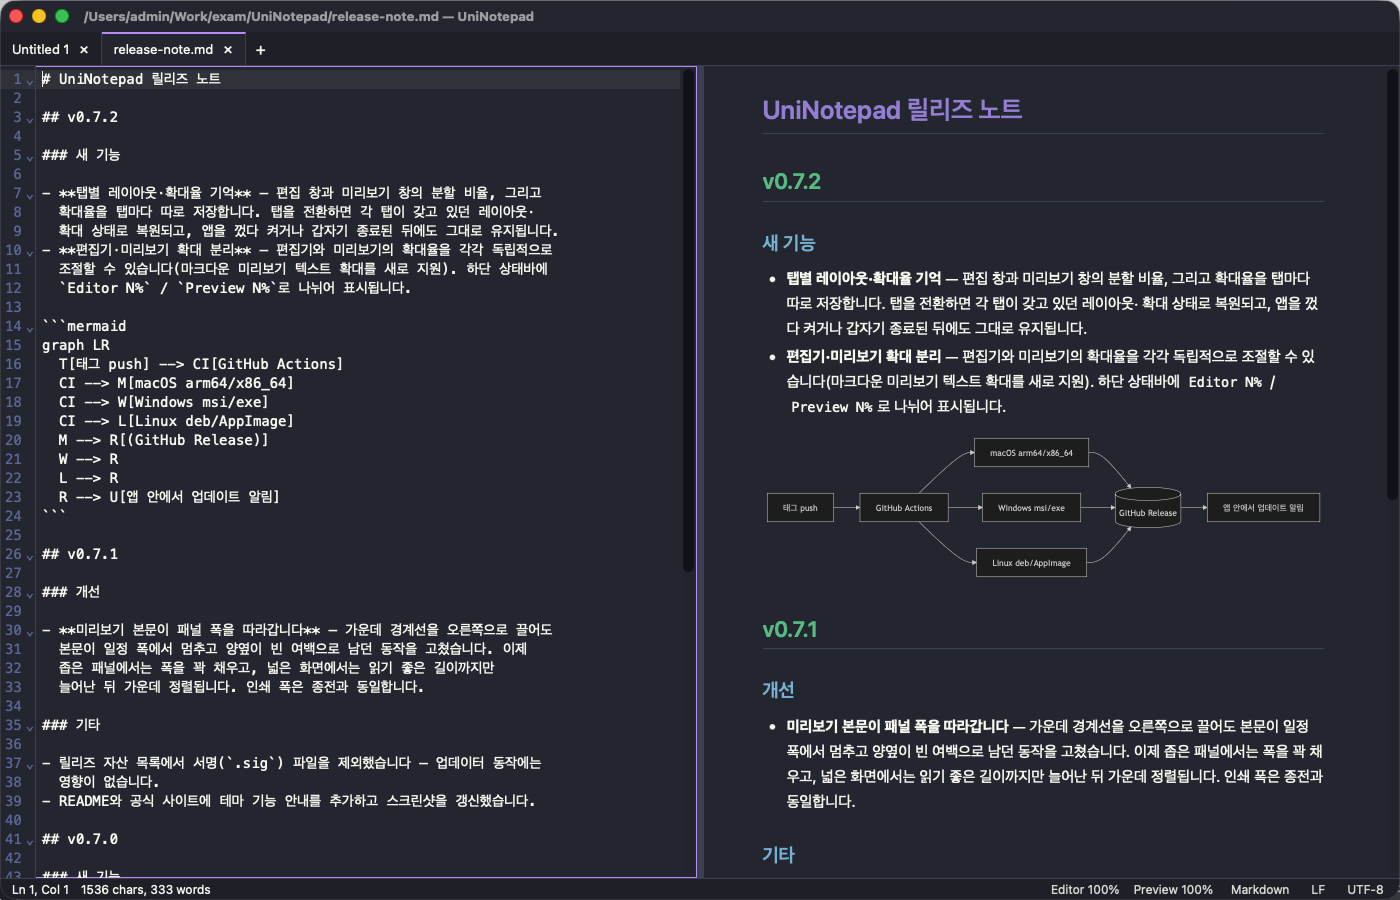
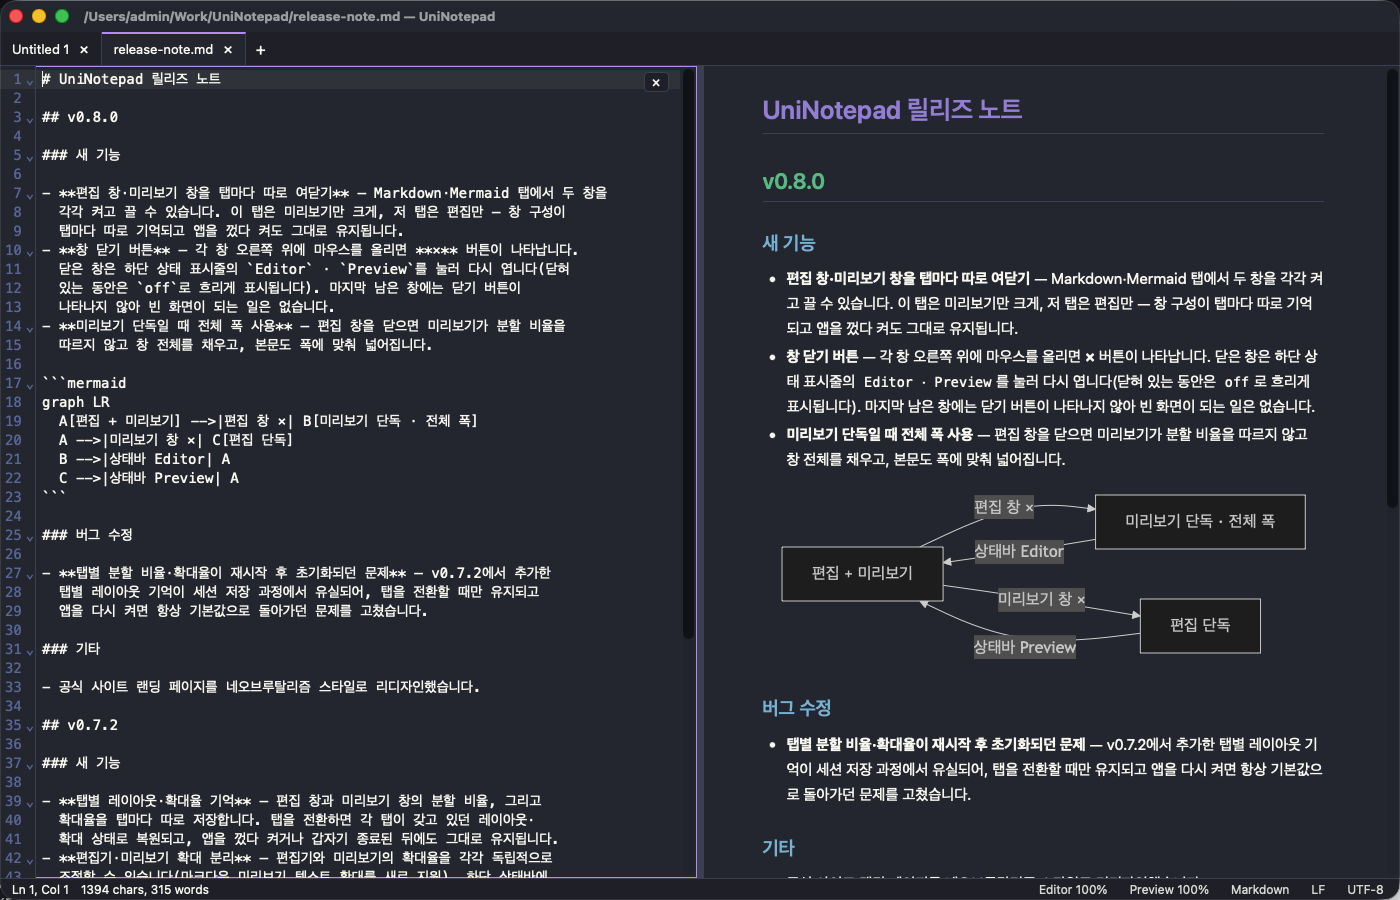
[Docs] release-note.md와 Markdown 스크린샷을 v0.8.0 화면으로 갱신
- release-note.md에 v0.8.0 섹션 추가(최근 3개 릴리즈 유지). 창 전환 흐름을
  보여주는 mermaid graph LR 예시로 교체
- docs/·site/assets/의 syntax-markdown(.light) 4장을 v0.8.0 빌드 화면으로
  교체 — 편집 창 우상단 닫기 버튼과 상태바 Editor/Preview 칩이 함께 담김

diff --git a/release-note.md b/release-note.md
@@ -1,5 +1,37 @@
 # UniNotepad 릴리즈 노트
 
+## v0.8.0
+
+### 새 기능
+
+- **편집 창·미리보기 창을 탭마다 따로 여닫기** — Markdown·Mermaid 탭에서 두 창을
+  각각 켜고 끌 수 있습니다. 이 탭은 미리보기만 크게, 저 탭은 편집만 — 창 구성이
+  탭마다 따로 기억되고 앱을 껐다 켜도 그대로 유지됩니다.
+- **창 닫기 버튼** — 각 창 오른쪽 위에 마우스를 올리면 **×** 버튼이 나타납니다.
+  닫은 창은 하단 상태 표시줄의 `Editor` · `Preview`를 눌러 다시 엽니다(닫혀
+  있는 동안은 `off`로 흐리게 표시됩니다). 마지막 남은 창에는 닫기 버튼이
+  나타나지 않아 빈 화면이 되는 일은 없습니다.
+- **미리보기 단독일 때 전체 폭 사용** — 편집 창을 닫으면 미리보기가 분할 비율을
+  따르지 않고 창 전체를 채우고, 본문도 폭에 맞춰 넓어집니다.
+
+```mermaid
+graph LR
+  A[편집 + 미리보기] -->|편집 창 ×| B[미리보기 단독 · 전체 폭]
+  A -->|미리보기 창 ×| C[편집 단독]
+  B -->|상태바 Editor| A
+  C -->|상태바 Preview| A
+```
+
+### 버그 수정
+
+- **탭별 분할 비율·확대율이 재시작 후 초기화되던 문제** — v0.7.2에서 추가한
+  탭별 레이아웃 기억이 세션 저장 과정에서 유실되어, 탭을 전환할 때만 유지되고
+  앱을 다시 켜면 항상 기본값으로 돌아가던 문제를 고쳤습니다.
+
+### 기타
+
+- 공식 사이트 랜딩 페이지를 네오브루탈리즘 스타일로 리디자인했습니다.
+
 ## v0.7.2
 
 ### 새 기능
@@ -10,18 +42,6 @@
 - **편집기·미리보기 확대 분리** — 편집기와 미리보기의 확대율을 각각 독립적으로
   조절할 수 있습니다(마크다운 미리보기 텍스트 확대를 새로 지원). 하단 상태바에
   `Editor N%` / `Preview N%`로 나뉘어 표시됩니다.
-
-```mermaid
-graph LR
-  T[태그 push] --> CI[GitHub Actions]
-  CI --> M[macOS arm64/x86_64]
-  CI --> W[Windows msi/exe]
-  CI --> L[Linux deb/AppImage]
-  M --> R[(GitHub Release)]
-  W --> R
-  L --> R
-  R --> U[앱 안에서 업데이트 알림]
-```
 
 ## v0.7.1
 
@@ -37,31 +57,3 @@ graph LR
 - 릴리즈 자산 목록에서 서명(`.sig`) 파일을 제외했습니다 — 업데이터 동작에는
   영향이 없습니다.
 - README와 공식 사이트에 테마 기능 안내를 추가하고 스크린샷을 갱신했습니다.
-
-## v0.7.0
-
-### 새 기능
-
-- **외부 변경 실시간 감지** — 다른 프로그램이 파일을 고치면 앱이 켜져 있는
-  동안에도 바로 알아챕니다. 편집 전이면 조용히 새로 고치고, 편집 중이면
-  배너로 어느 쪽을 남길지 물어봅니다.
-- **대용량 파일 보호** — 10MB가 넘는 파일은 확인 후 구문 강조 없이 가볍게
-  열고, 100MB를 넘으면 열지 않아 앱이 멈추는 일을 막습니다.
-- **자동 업데이트 확인** — 새 버전이 나오면 상태바에 조용히 알려줍니다.
-  Windows·Linux AppImage는 앱 안에서 바로 설치하고 재시작합니다.
-- **통합 설정 화면** — `Ctrl/Cmd+,` 한 화면에서 폰트(글꼴 선택 포함) ·
-  줄번호 · 들여쓰기 · 저장 옵션 · 테마를 조절합니다. File 메뉴의
-  Open Recent는 네이티브 서브메뉴가 되었습니다.
-
-### 개선
-
-- **초기 로드 55% 경량화** — 구문 강조 언어를 필요할 때만 로드해 시작이
-  더 빨라졌습니다.
-- 타이틀바에 파일 전체 경로를 표시하고, 앱 버전은 About 다이얼로그로
-  옮겼습니다.
-
-### 버그 수정
-
-- 처음 설치했을 때 글자가 아주 작게(8px) 나오던 문제를 고쳤습니다 —
-  들여쓰기 폭도 함께 영향을 받았습니다.
-- About 다이얼로그의 홈페이지 링크가 열리지 않던 문제를 고쳤습니다.
